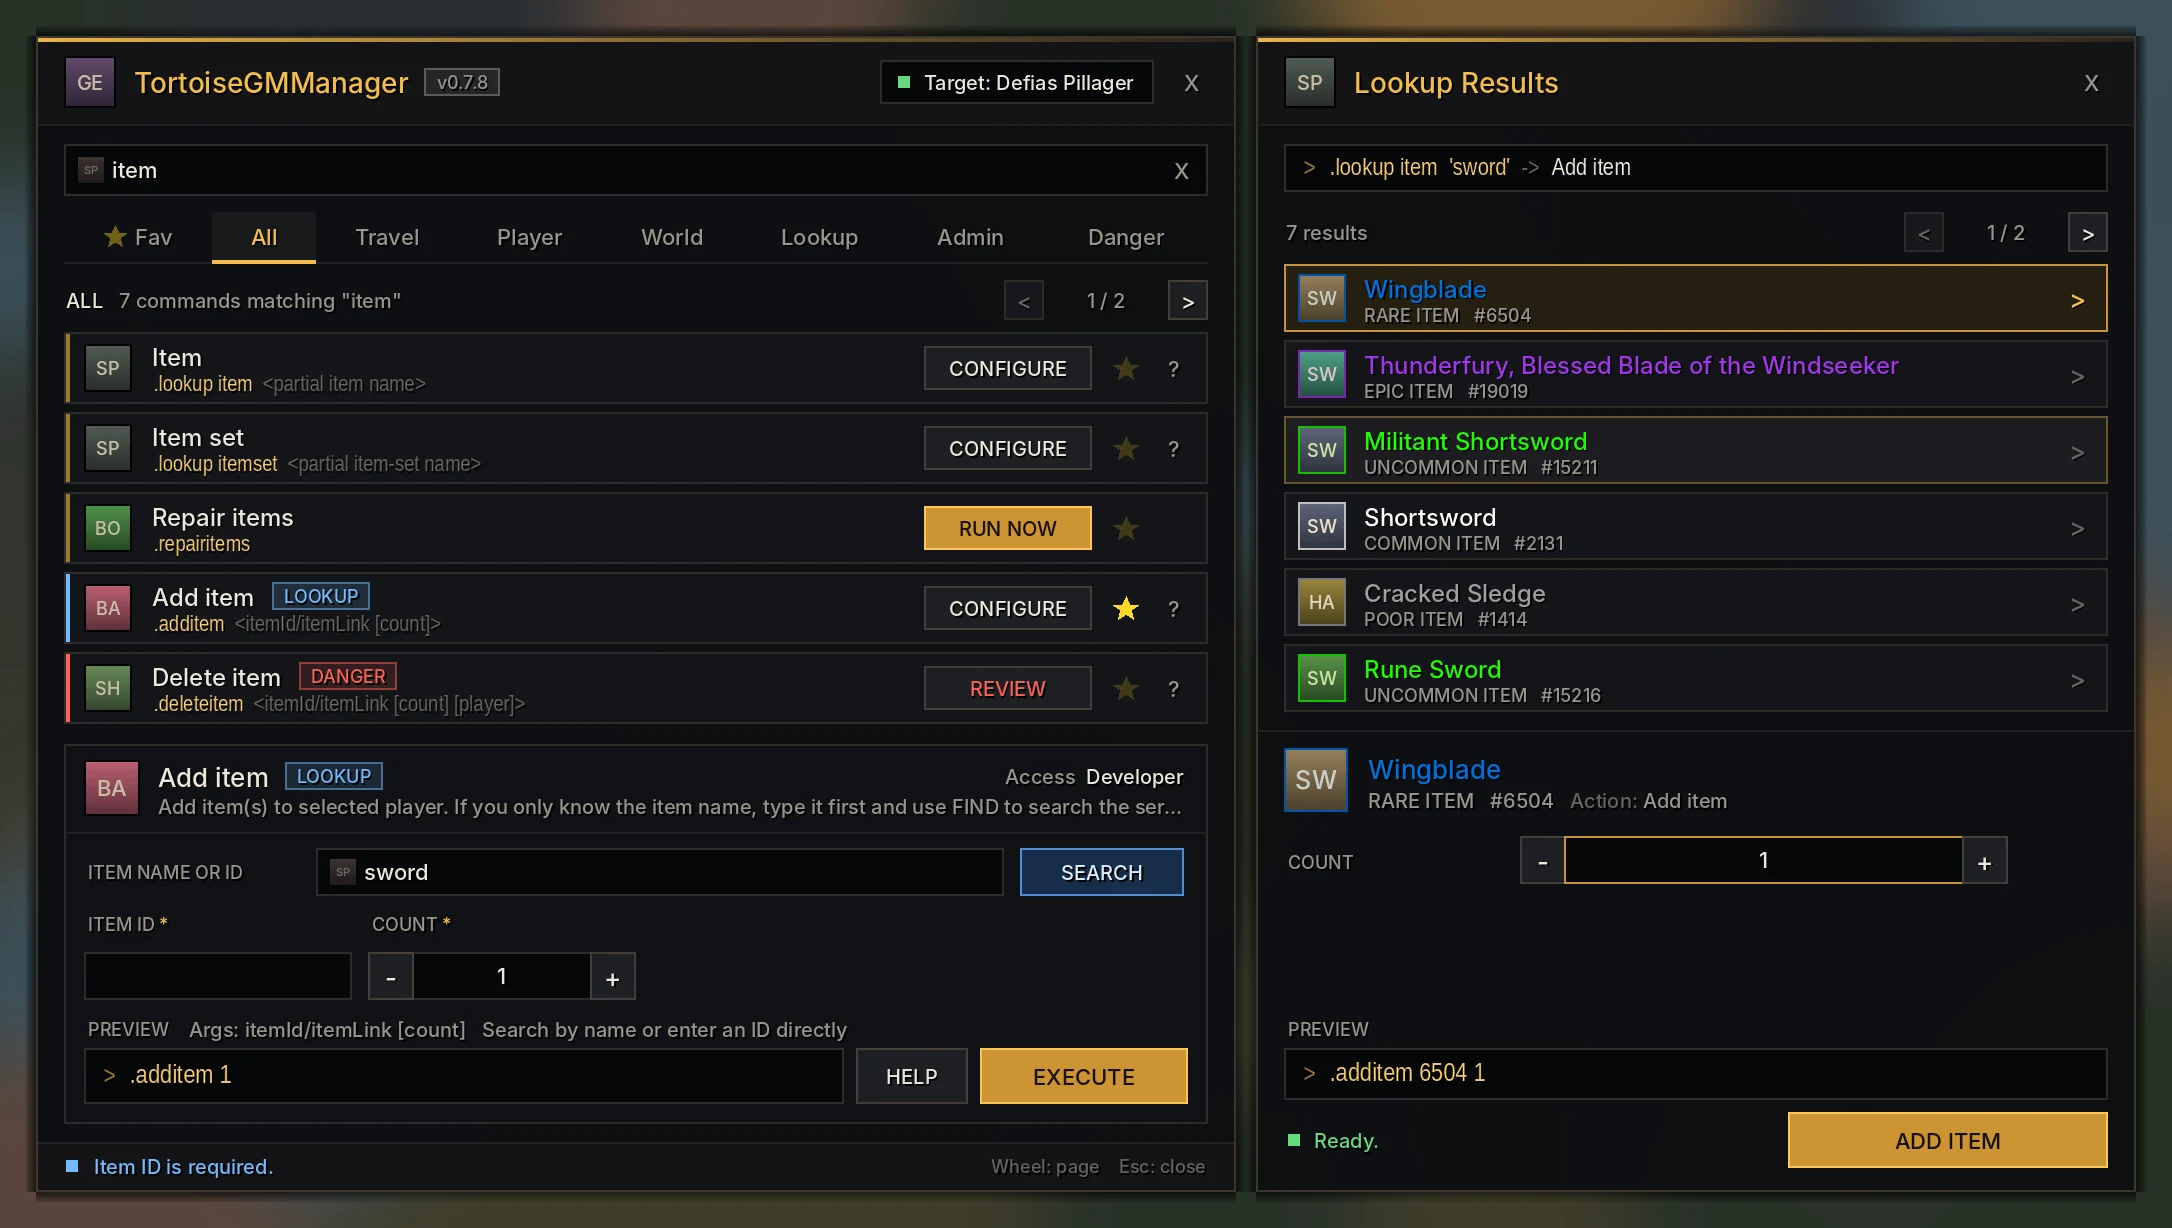
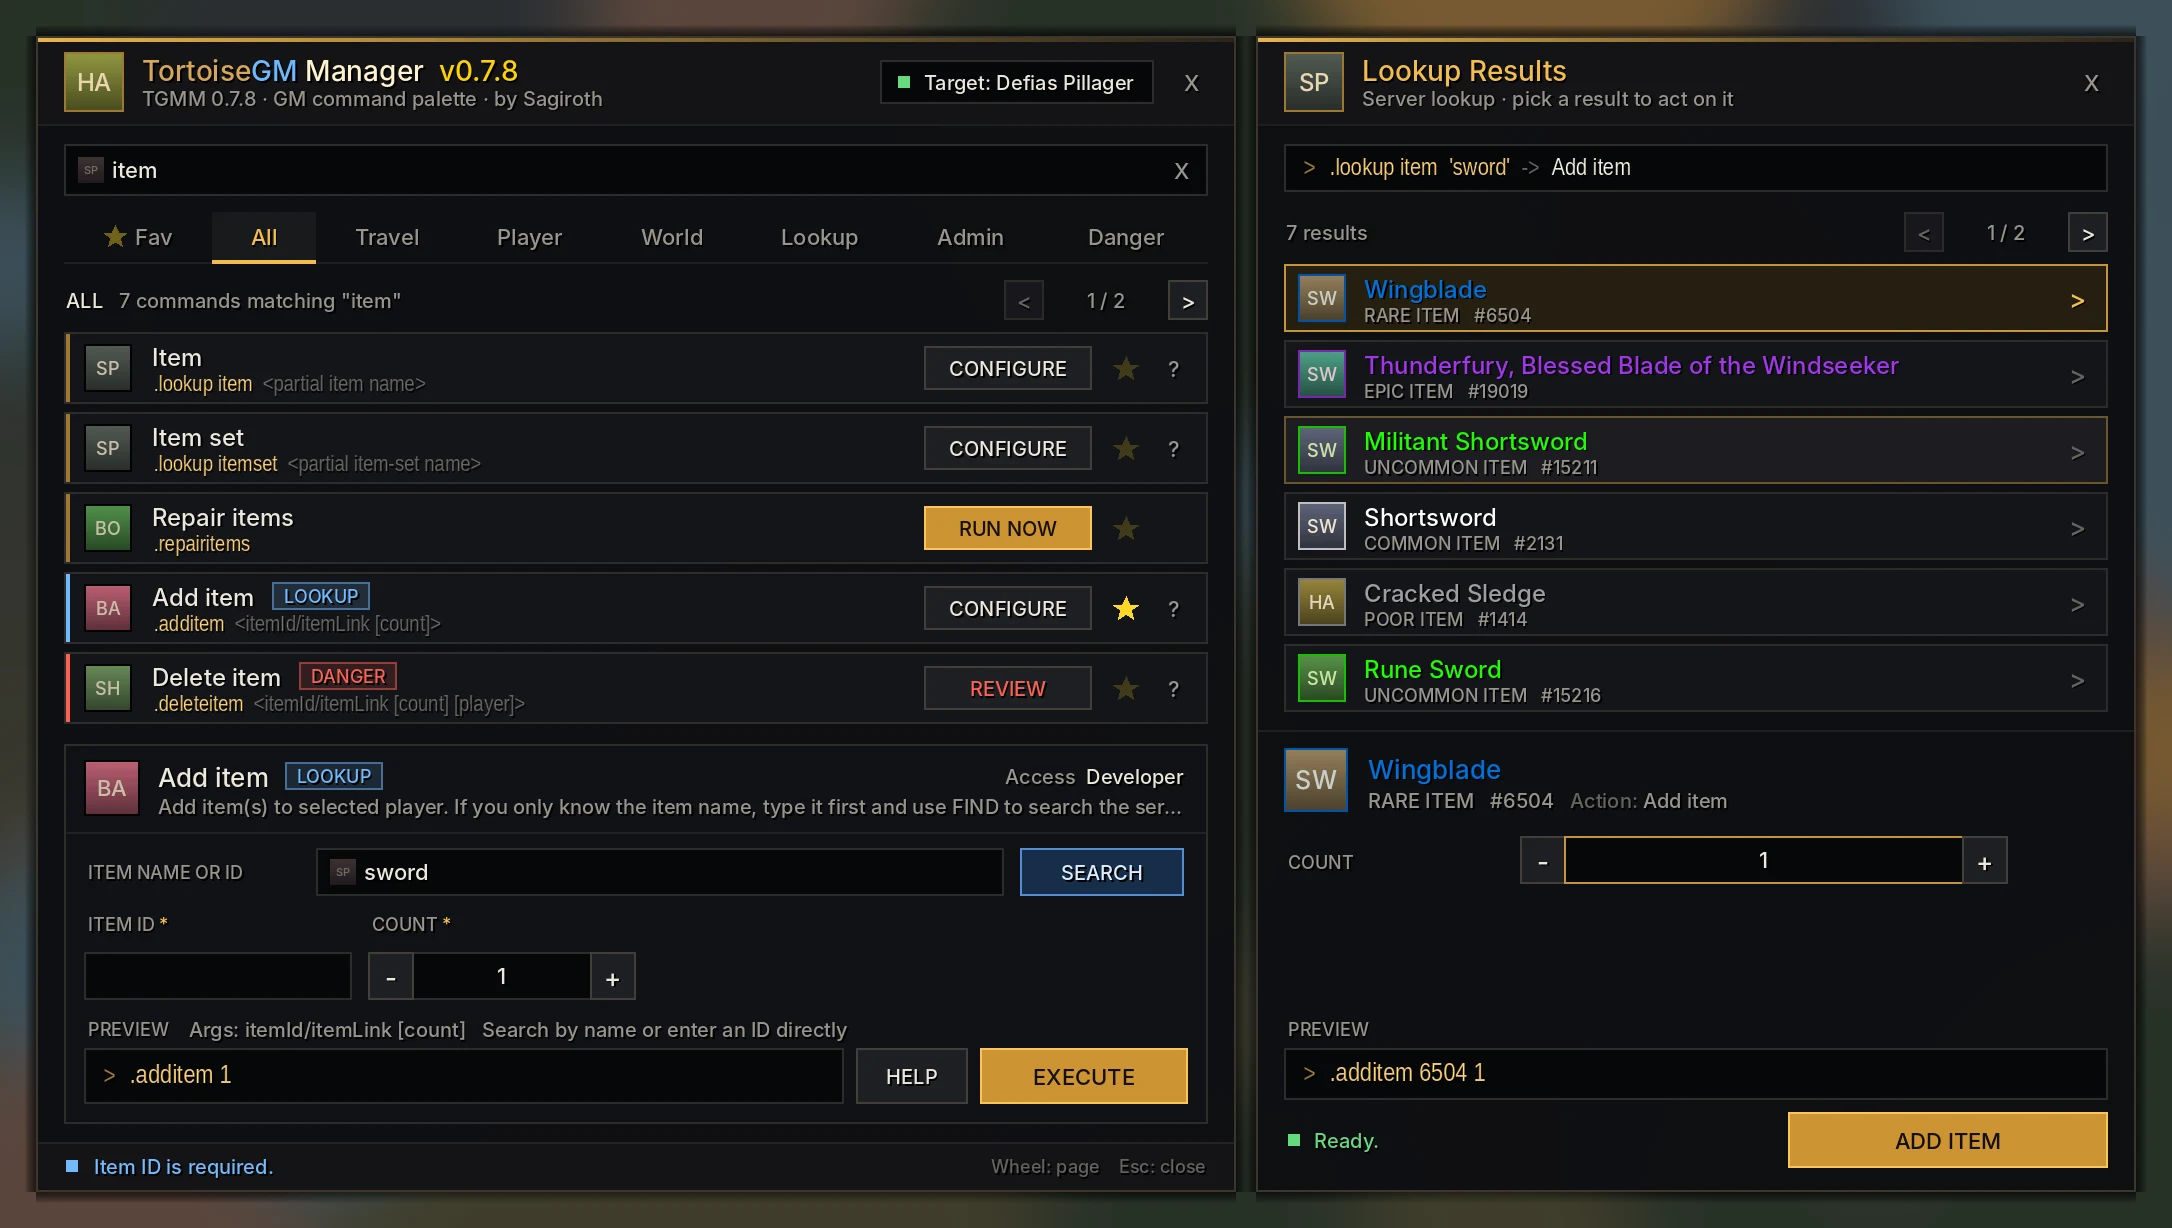
Match TortoiseBotsManager branding in the window header
- Two-tone title (Tortoise / GM / Manager + version) and a muted meta
  line underneath, the same pattern TortoiseBotsManager uses.
- Sulfuras "ban hammer" icon for the header and minimap button instead
  of the generic gear; slightly larger, gold-framed brand mark.
- Lookup Results header gets the same two-line layout.

Claude-Session: https://claude.ai/code/session_01PiERiE3ouSFtGnEgbHCFy6

Changed region(s): [[0.0308, 0.0309, 0.2776, 0.0928], [0.5861, 0.0309, 0.802, 0.0928]]

diff --git a/README.md b/README.md
@@ -124,7 +124,7 @@ WoW loads any folder that contains a `.toc` file, so the folder name does not ne
 5. On the character-selection screen, open **AddOns** and enable **TortoiseGMManager**.
 6. If the client marks it as outdated, enable **Load out of date AddOns**. The manifest targets Vanilla interface `11200`.
 7. Log into a GM character.
-8. Click the gear icon next to the minimap, or run:
+8. Click the hammer icon next to the minimap, or run:
 
 ```text
 /tgmm
